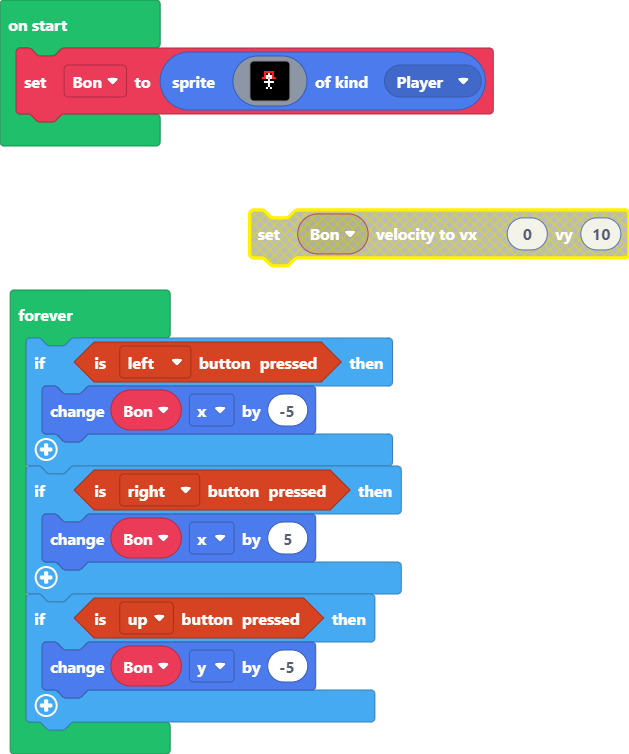
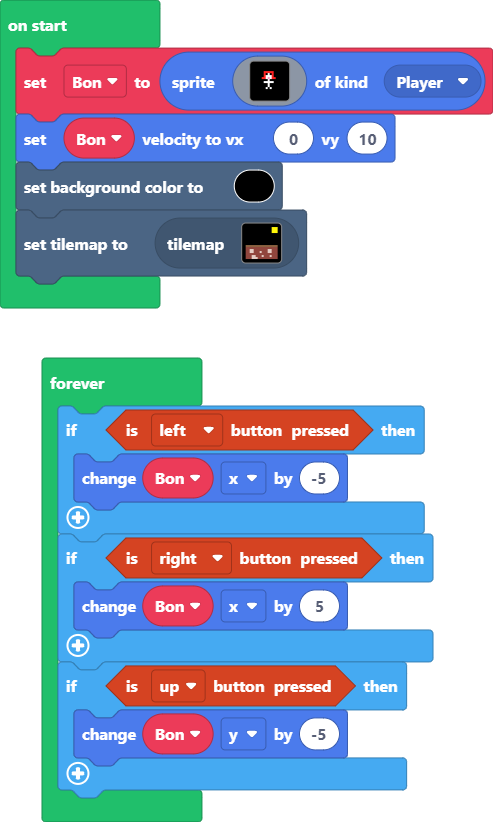
Update pxt.json, main.blocks, main.ts, images.g.jres, images.g.ts, tilemap.g.jres, tilemap.g.ts

diff --git a/tilemap.g.ts b/tilemap.g.ts
@@ -1,0 +1,101 @@
+// Auto-generated code. Do not edit.
+namespace myTiles {
+    //% fixedInstance jres blockIdentity=images._tile
+    export const transparency16 = image.ofBuffer(hex``);
+    //% fixedInstance jres blockIdentity=images._tile
+    export const tile1 = image.ofBuffer(hex``);
+    //% fixedInstance jres blockIdentity=images._tile
+    export const tile2 = image.ofBuffer(hex``);
+    //% fixedInstance jres blockIdentity=images._tile
+    export const tile3 = image.ofBuffer(hex``);
+    //% fixedInstance jres blockIdentity=images._tile
+    export const tile4 = image.ofBuffer(hex``);
+    //% fixedInstance jres blockIdentity=images._tile
+    export const tile5 = image.ofBuffer(hex``);
+    //% fixedInstance jres blockIdentity=images._tile
+    export const tile6 = image.ofBuffer(hex``);
+
+    helpers._registerFactory("tilemap", function(name: string) {
+        switch(helpers.stringTrim(name)) {
+            case "level1":
+            case "level1":return tiles.createTilemap(hex`1000100002020202020202020202020202020202020202020202020202020202020202020202020202020202020202020202020202020202020202020202020202020202020202020202020202020202020202020202020202020202020202020202020202020202020202020202020202020202020202020202020202020202020202020202020202020202020202020202020202020202020202020202020202020202020202020202020202020202020202020202020202020202020202020202020202020202020202020202020202020202020202020202020202020202020202020202020202020202020202020202020202020202020202020202020202020202`, img`
+. . . . . . . . . . . . . . . . 
+. . . . . . . . . . . . . . . . 
+. . . . . . . . . . . . . . . . 
+. . . . . . . . . . . . . . . . 
+. . . . . . . . . . . . . . . . 
+. . . . . . . . . . . . . . . . 
+. . . . . . . . . . . . . . . . 
+. . . . . . . . . . . . . . . . 
+. . . . . . . . . . . . . . . . 
+. . . . . . . . . . . . . . . . 
+. . . . . . . . . . . . . . . . 
+. . . . . . . . . . . . . . . . 
+. . . . . . . . . . . . . . . . 
+. . . . . . . . . . . . . . . . 
+. . . . . . . . . . . . . . . . 
+. . . . . . . . . . . . . . . . 
+`, [myTiles.transparency16,myTiles.tile1,myTiles.tile2], TileScale.Sixteen);
+            case "level3":
+            case "level3":return tiles.createTilemap(hex`1000100000000000000000000000000000000000000000000000000000000000000000000000000000000000000000000000000000000000000000000000000000000000000000000000000000000000000000000000000000000000000000000000000000000000000000000000000000000000000000000000000000000000000000000000000000000000000000000000000000000000000000000000000000000000000000000000000000000000000000000000000000000000000000000000000000000000000000000000000000000000000000000000000000000000000000000000000000000000000000000000000000000000000000000000000000000000`, img`
+. . . . . . . . . . . . . . . . 
+. . . . . . . . . . . . . . . . 
+. . . . . . . . . . . . . . . . 
+. . . . . . . . . . . . . . . . 
+. . . . . . . . . . . . . . . . 
+. . . . . . . . . . . . . . . . 
+. . . . . . . . . . . . . . . . 
+. . . . . . . . . . . . . . . . 
+. . . . . . . . . . . . . . . . 
+. . . . . . . . . . . . . . . . 
+. . . . . . . . . . . . . . . . 
+. . . . . . . . . . . . . . . . 
+. . . . . . . . . . . . . . . . 
+. . . . . . . . . . . . . . . . 
+. . . . . . . . . . . . . . . . 
+. . . . . . . . . . . . . . . . 
+`, [myTiles.transparency16], TileScale.Sixteen);
+            case "level2":
+            case "level2":return tiles.createTilemap(hex`1000100002000000000000000000000002010101000000000000000000000002020101010000000000000000000002000201010100000000000000000002000002020202000000000000000000000000000000000000000000000000000000000000000000000000000000000000000000000000000000000000000000000000000000000000000000000000000000000000000003030303030303030303030303030303040404040404040404040404040404040404050504040404040404050504040404040505040404050404040505040404040404040404040404040404040404040404040505040404050404040504040404040405050504040404040404040404`, img`
+. . . . . . . . . . . . . . . . 
+. . . . . . . . . . . . . . . . 
+. . . . . . . . . . . . . . . . 
+. . . . . . . . . . . . . . . . 
+. . . . . . . . . . . . . . . . 
+. . . . . . . . . . . . . . . . 
+. . . . . . . . . . . . . . . . 
+. . . . . . . . . . . . . . . . 
+. . . . . . . . . . . . . . . . 
+2 2 2 2 2 2 2 2 2 2 2 2 2 2 2 2 
+2 2 2 2 2 2 2 2 2 2 2 2 2 2 2 2 
+2 2 2 2 2 2 2 2 2 2 2 2 2 2 2 2 
+2 2 2 2 2 2 2 2 2 2 2 2 2 2 2 2 
+2 2 2 2 2 2 2 2 2 2 2 2 2 2 2 2 
+2 2 2 2 2 2 2 2 2 2 2 2 2 2 2 2 
+2 2 2 2 2 2 2 2 2 2 2 2 2 2 2 2 
+`, [myTiles.transparency16,myTiles.tile1,myTiles.tile2,myTiles.tile4,myTiles.tile5,myTiles.tile6], TileScale.Sixteen);
+        }
+        return null;
+    })
+
+    helpers._registerFactory("tile", function(name: string) {
+        switch(helpers.stringTrim(name)) {
+            case "transparency16":return transparency16;
+            case "Sun":
+            case "tile1":return tile1;
+            case "Blank":
+            case "tile2":return tile2;
+            case "heart key":
+            case "tile3":return tile3;
+            case "myTile":
+            case "tile4":return tile4;
+            case "myTile0":
+            case "tile5":return tile5;
+            case "myTile1":
+            case "tile6":return tile6;
+        }
+        return null;
+    })
+
+}
+// Auto-generated code. Do not edit.

diff --git a/images.g.ts b/images.g.ts
@@ -22,6 +22,25 @@ namespace myImages {
 . . . . . . . . . . . . . . . . 
 . . . . . . . . . . . . . . . . 
 `;
+            case "image2":
+            case "key":return img`
+. . . . . . . . . . . . . . . . 
+. . . . . . . . . . . . . . . . 
+. . . . 3 3 3 . 3 3 3 . . . . . 
+. . . 3 3 3 3 3 3 3 3 3 . . . . 
+. . . 3 3 3 3 3 3 3 3 3 . . . . 
+. . . 3 3 3 3 3 3 3 3 3 . . . . 
+. . . . 3 3 3 3 3 3 3 . . . . . 
+. . . . . 3 3 3 3 3 . . . . . . 
+. . . . . . 3 3 3 . . . . . . . 
+. . . . . . . 3 . . . . . . . . 
+. . . . . . . . . . . . . . . . 
+. . . . . . . . . . . . . . . . 
+. . . . . . . . . . . . . . . . 
+. . . . . . . . . . . . . . . . 
+. . . . . . . . . . . . . . . . 
+. . . . . . . . . . . . . . . . 
+`;
         }
         return null;
     })

diff --git a/main.ts b/main.ts
@@ -1,4 +1,7 @@
 let Bon = sprites.create(assets.image`Bon`, SpriteKind.Player)
+Bon.setVelocity(0, 10)
+scene.setBackgroundColor(15)
+tiles.setCurrentTilemap(tilemap`level2`)
 forever(function () {
     if (controller.left.isPressed()) {
         Bon.x += -5
